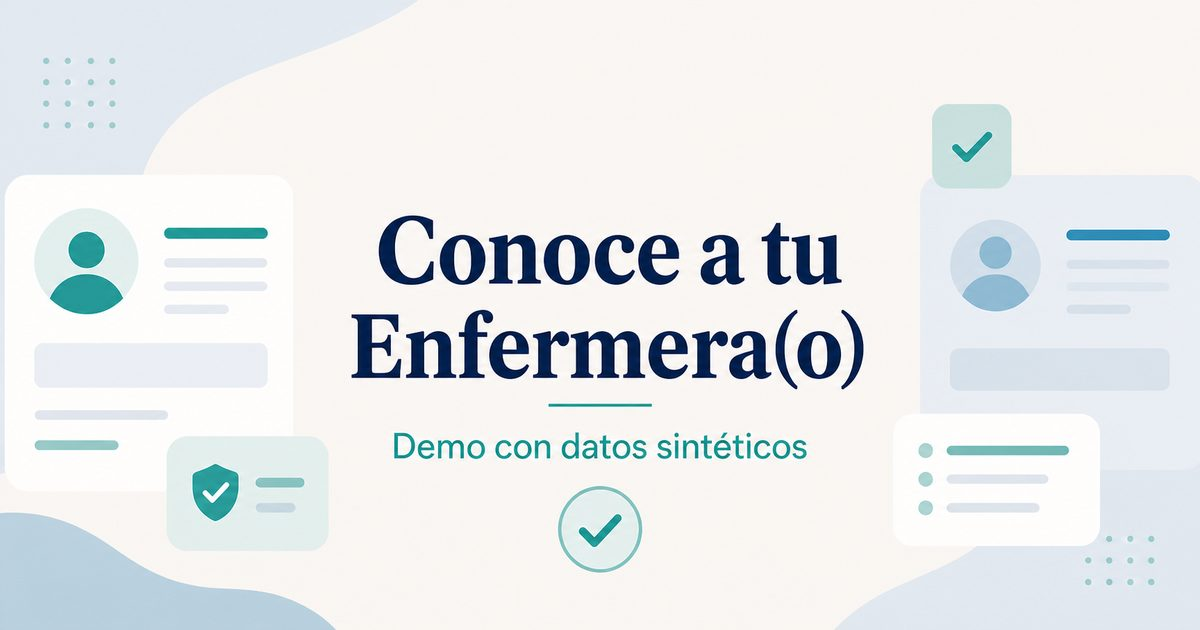
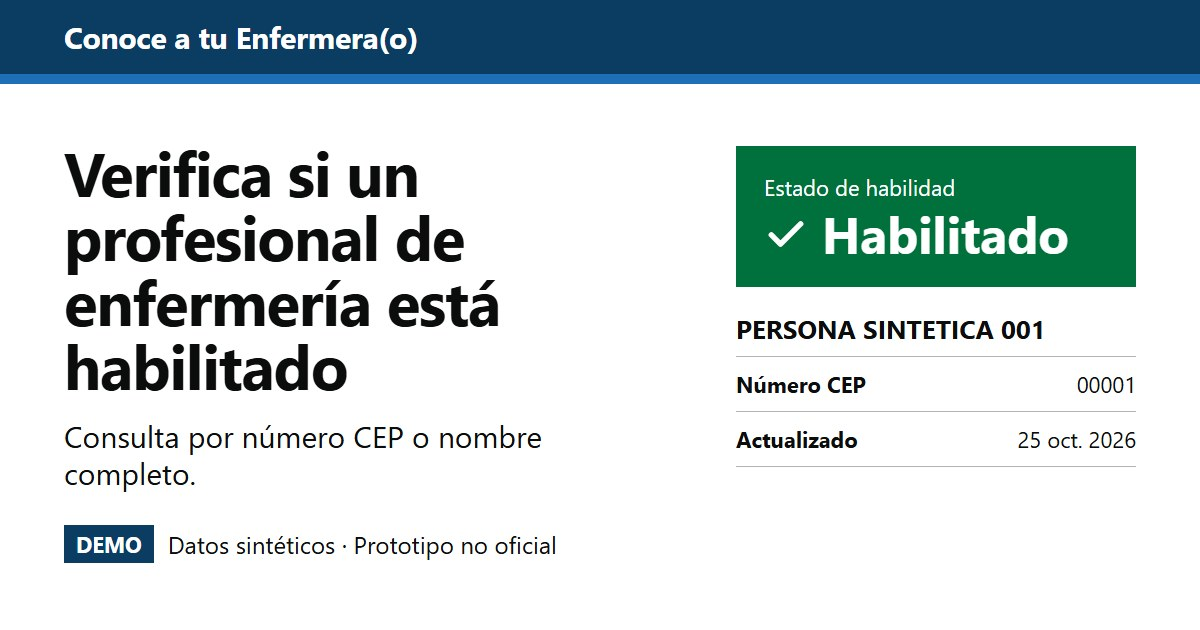
feat: rehacer la imagen para vistas previas con el estilo sobrio
La imagen para redes conservaba el estilo anterior: tarjetas flotantes,
avatares y titular con serifa. Ahora reproduce la interfaz rediseñada:
franja azul tinta, titular grande, bloque verde de estado con icono y
texto, y la etiqueta de demo con datos sintéticos.

- 1200 × 630 en JPEG, 85 KB, dentro del rango que exige la prueba.
- La versión de la URL pasa a 20261030-1 para que las plataformas no
  reutilicen la imagen cacheada.

diff --git a/app/app/layout.tsx b/app/app/layout.tsx
@@ -11,13 +11,13 @@ const shareMetadata: Metadata = {
     siteName: "Conoce a tu Enfermera(o) — Demo",
     title: "Conoce a tu Enfermera(o)",
     description: "Consulta demostrativa de colegiatura y habilidad con datos sintéticos.",
-    images: [{ url: "/og-card.jpg?v=20260810-3", width: 1200, height: 630, type: "image/jpeg", alt: "Conoce a tu Enfermera(o): demo con datos sintéticos." }],
+    images: [{ url: "/og-card.jpg?v=20261030-1", width: 1200, height: 630, type: "image/jpeg", alt: "Conoce a tu Enfermera(o): demo con datos sintéticos." }],
   },
   twitter: {
     card: "summary_large_image",
     title: "Conoce a tu Enfermera(o)",
     description: "Consulta demostrativa de colegiatura y habilidad con datos sintéticos.",
-    images: ["/og-card.jpg?v=20260810-3"],
+    images: ["/og-card.jpg?v=20261030-1"],
   },
 };
 

diff --git a/app/tests/consulta.test.ts b/app/tests/consulta.test.ts
@@ -141,7 +141,7 @@ test("renderiza la consulta pública y elimina el starter", async () => {
   assert.match(layout, /summary_large_image/);
   assert.match(layout, /og-card\.jpg/);
   assert.match(layout, /image\/jpeg/);
-  assert.match(layout, /20260810-3/);
+  assert.match(layout, /20261030-1/);
   assert.match(layout, /Conoce a tu Enfermera\(o\)/);
   assert.doesNotMatch(client, /hero-promises|Sin registro|Coincidencia exacta/);
   assert.doesNotMatch(client, /style=\{/);
